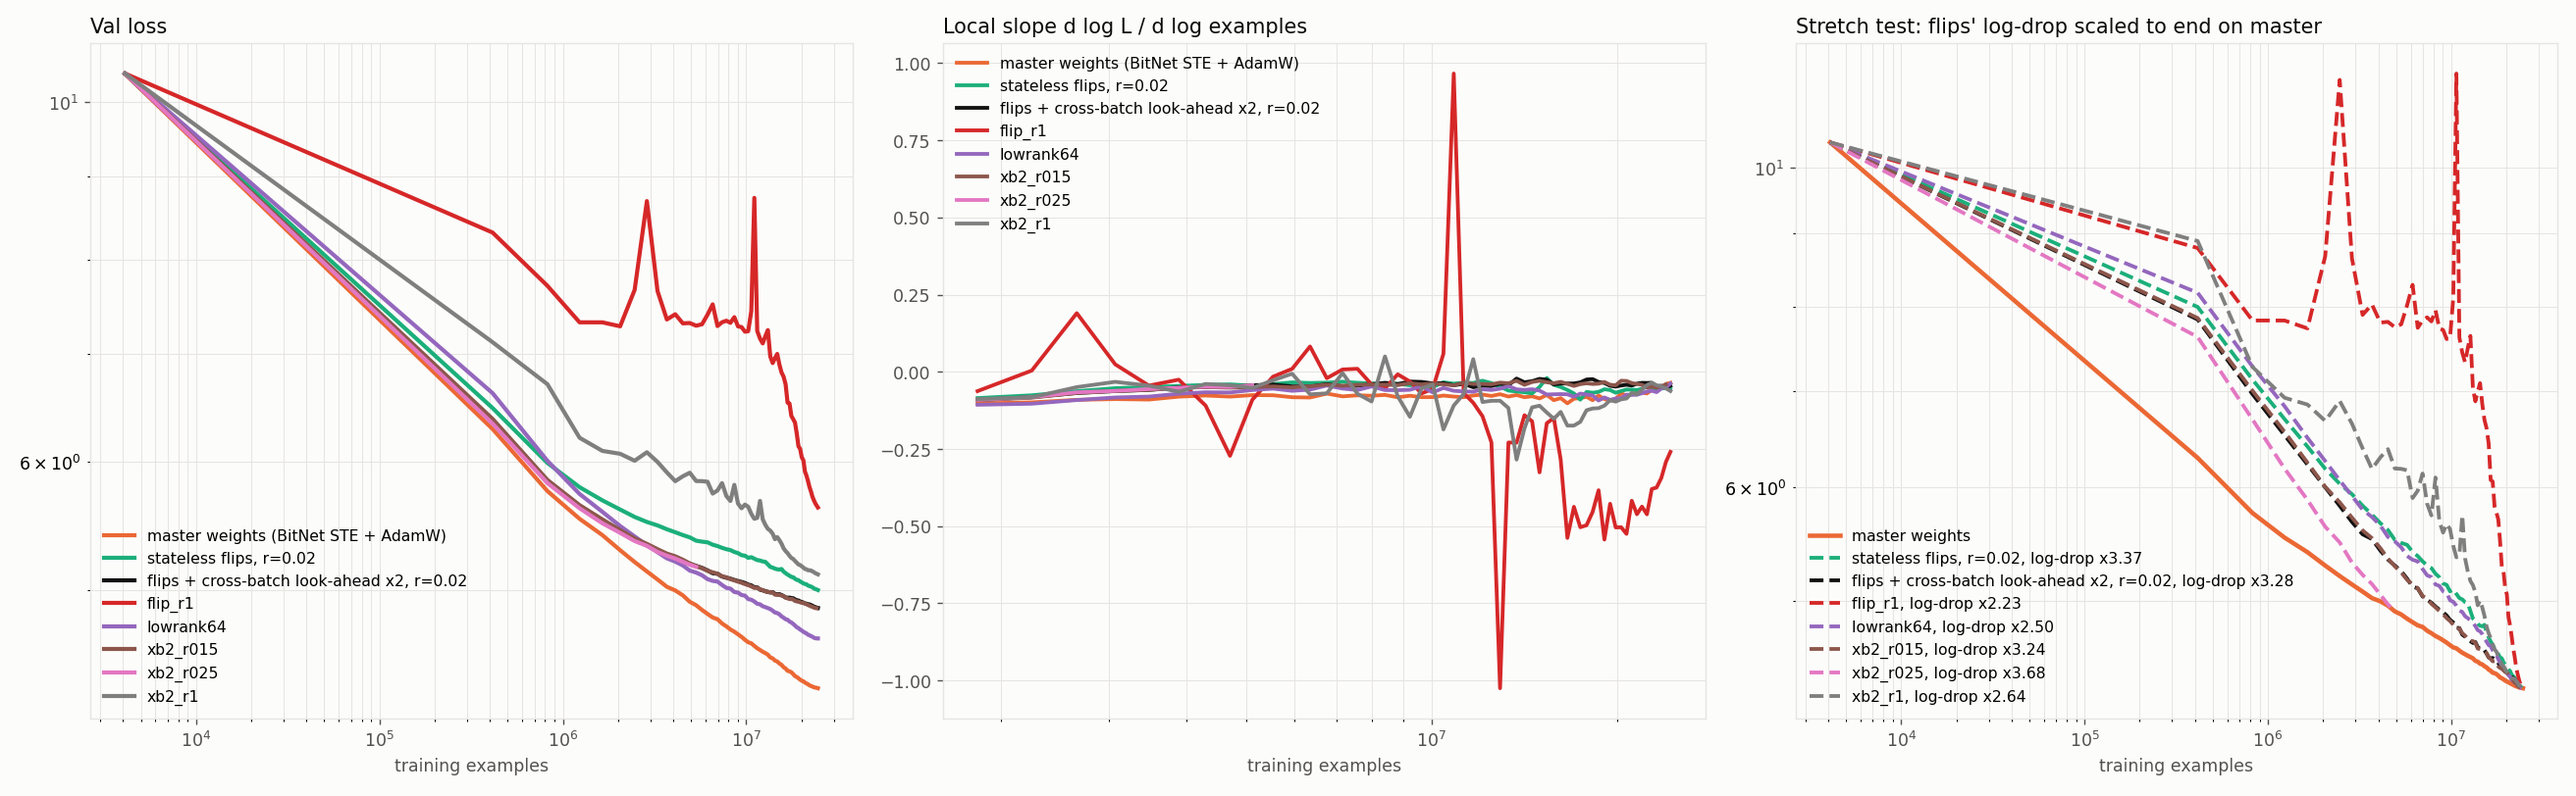
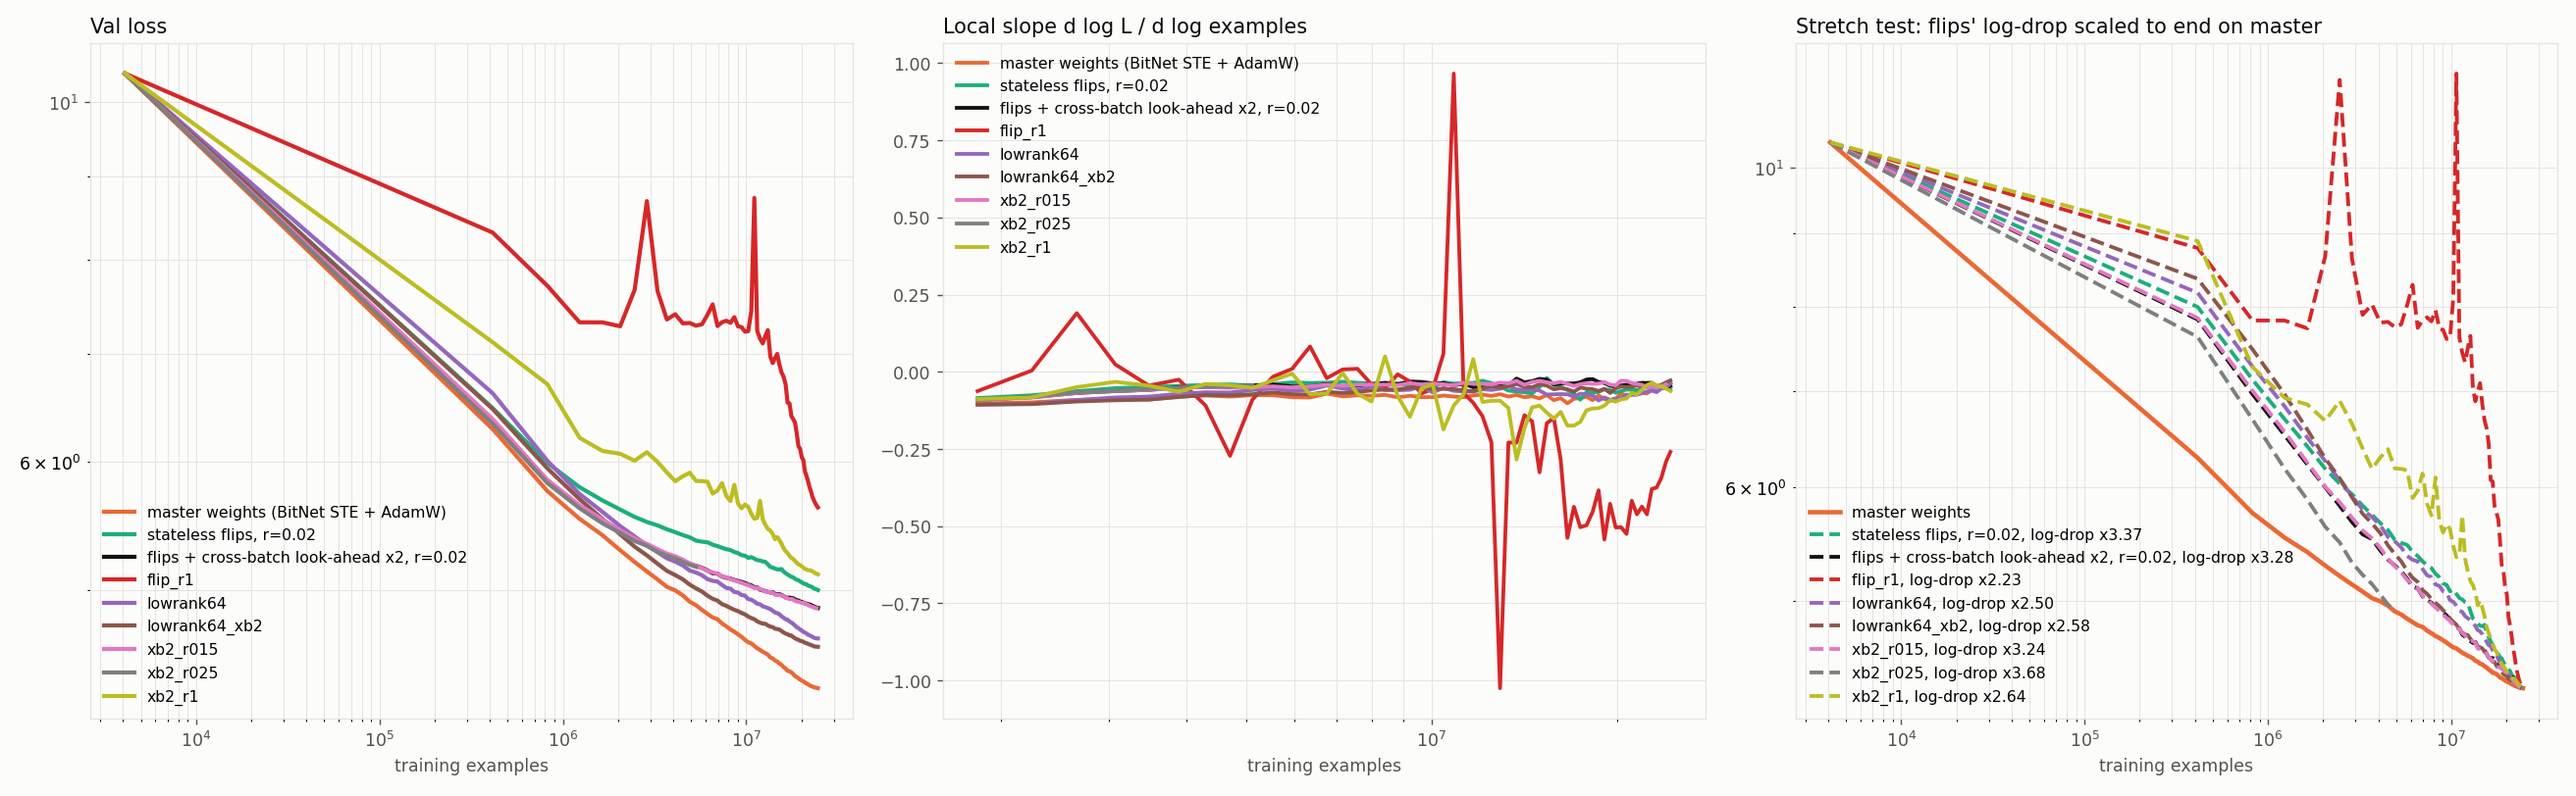
Rank-64 momentum + cross-batch look-ahead on the MLP: val 4.615

diff --git a/scripts/mlp/mlp_lab.py b/scripts/mlp/mlp_lab.py
@@ -136,8 +136,30 @@ def main():
     LR_U = {id(l): torch.linalg.qr(torch.randn(l.N, a.lowrank, device=dev))[0] for l in Ls} if a.lowrank else {}
     LR_V = {id(l): torch.zeros(l.K, a.lowrank, device=dev) for l in Ls} if a.lowrank else {}
 
+    def lowrank_flip(s, x=None, y=None):
+        """Flip from the rank-r momentum; with --lookahead, filter those proposals by
+        look-ahead (the keep test uses this step's gradient g_A, as in lookahead_step)."""
+        from bitnet.kernel import fused_flip, lookahead_filter
+        saved = [l.wpacked.clone() for l in Ls] if a.lookahead else None
+        gA = [l.gw.float().clone() for l in Ls] if a.lookahead else None
+        propose(s)
+        if not a.lookahead:
+            return
+        tail_g = [None if p.grad is None else p.grad.clone() for p in params]
+        for _ in range(a.lookahead):
+            for l in Ls: l.capture = True
+            for p in params: p.grad = None
+            xc, yc = extra() if extra is not None else (x, y)
+            with torch.autocast("cuda", dtype=torch.bfloat16):
+                model(xc, yc)[1].backward()
+            for i, l in enumerate(Ls):
+                lookahead_filter(saved[i], l.wpacked, gA[i], l.gw)
+                l.gw = None
+        for l in Ls: l.capture = False
+        for p, g in zip(params, tail_g): p.grad = g
+
     @torch.no_grad()
-    def lowrank_flip(s):
+    def propose(s):
         from bitnet.kernel import fused_flip
         for i, l in enumerate(Ls):
             g = l.gw.float(); l.gw = None; l.capture = False
@@ -167,10 +189,10 @@ def main():
             loss = model(x, y)[1]
         loss.backward()
         info = {}
-        if a.lookahead:
+        if a.lowrank:
+            lowrank_flip(s, x, y)
+        elif a.lookahead:
             info = lookahead_step(model, x, y, params, dev, s, a.lookahead, 0, extra)
-        elif a.lowrank:
-            lowrank_flip(s)
         torch.nn.utils.clip_grad_norm_(params, 1.0)
         opt.step()
         rec = {"step": s, "examples": (s + 1) * a.batch, "loss": loss.item(), **info}

diff --git a/docs/RUNS.md b/docs/RUNS.md
@@ -979,3 +979,8 @@ with the usual rule and rate but driven by M instead of the current gradient.
 Closes half of the flip-to-master gap (0.333 of 0.652) and, unlike look-ahead, raises the
 slope (-0.062 vs -0.045), at plain-flip cost per step: accumulating the direction across steps
 is the lever. Memory r*(N+K) per layer (~12% of per-weight at MLP size, ~1.7% at 27B shapes).
+
+Rank-64 momentum + cross-batch look-ahead x2 (`mlp_lowrank64_xb2`): **val 4.615** (momentum
+alone 4.670, look-ahead alone 4.877, master 4.351) -- 60% of the flip-to-master gap closed.
+The two add up but only partly (-0.055 from look-ahead on top of momentum, vs -0.126 on top
+of plain flips), at 3 passes per step.
